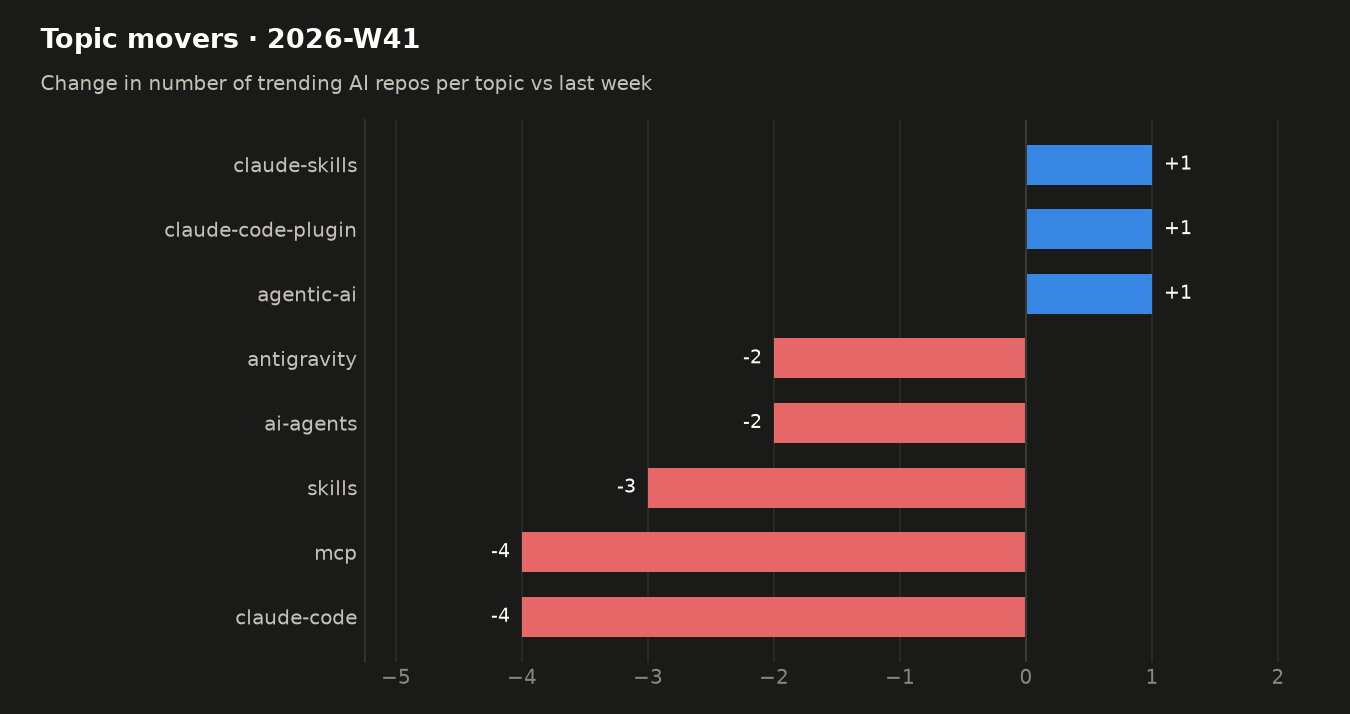
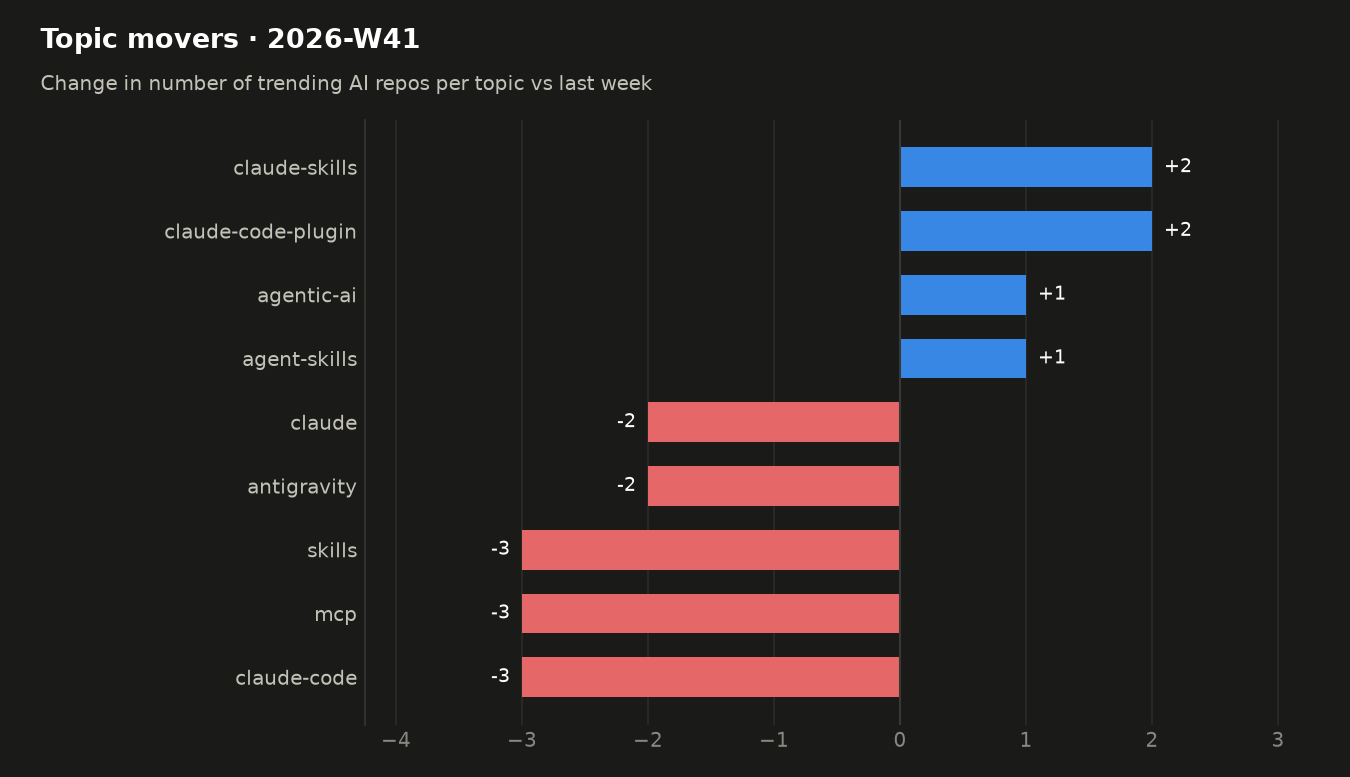
trending: snapshot 2026-10-07

diff --git a/README.md b/README.md
@@ -7,28 +7,31 @@ Every morning a GitHub Actions workflow reads the GitHub trending page, looks up
 ## Live view
 
 <!-- TRACKER_START -->
-### 🔥 AI repos trending today · 2026-10-06
+### 🔥 AI repos trending today · 2026-10-07
 
-7 of 13 trending repositories are AI-related.
+10 of 12 trending repositories are AI-related.
 
 | # | Repo | Language | ⭐ today | ⭐ total | Topics |
 |--:|---|---|--:|--:|---|
-| 2 | [thedotmack/claude-mem](https://github.com/thedotmack/claude-mem)<br><sub>Sponsor Star thedotmack / claude-mem Persistent Context Across Sessions for Every Agent – …</sub> | TypeScript | 534 | 96,796 | `ai` `ai-agents` `ai-memory` `anthropic` |
-| 3 | [earthtojake/text-to-cad](https://github.com/earthtojake/text-to-cad)<br><sub>Star earthtojake / text-to-cad Give your agent CAD superpowers.</sub> | Python | 437 | 17,624 | `agents` `ai-agents` `cad` `mechanical-engineering` |
-| 6 | [Panniantong/Agent-Reach](https://github.com/Panniantong/Agent-Reach)<br><sub>Star Panniantong / Agent-Reach Give your AI agent eyes to see the entire internet. Read & …</sub> | Python | 1,155 | 92,214 | `agent-infrastructure` `ai-agent` `ai-search` `automation` |
-| 7 | [calesthio/OpenMontage](https://github.com/calesthio/OpenMontage)<br><sub>Sponsor Star calesthio / OpenMontage World's first open-source, agentic video production s…</sub> | Python | 742 | 64,344 | `agent` `agentic-ai` `ai` `claude` |
-| 9 | [DuarteSantos8/openGym](https://github.com/DuarteSantos8/openGym)<br><sub>Sponsor Star DuarteSantos8 / openGym Self-hosted gym & body-weight tracker — plan routines…</sub> | JavaScript | 1,433 | 4,676 | `bodyweight` `docker` `fitness` `fitness-tracker` |
-| 10 | [cloudflare/cloudflare-os](https://github.com/cloudflare/cloudflare-os)<br><sub>Star cloudflare / cloudflare-os Agent workspace built on Cloudflare Workers for creating d…</sub> | TypeScript | 101 | 11,127 | – |
-| 12 | [msitarzewski/agency-agents](https://github.com/msitarzewski/agency-agents)<br><sub>Sponsor Star msitarzewski / agency-agents A complete AI agency at your fingertips - From f…</sub> | Shell | 744 | 157,471 | – |
+| 2 | [mattpocock/skills](https://github.com/mattpocock/skills)<br><sub>Sponsor Star mattpocock / skills Skills for Real Engineers. Straight from my .agents direc…</sub> | Shell | 889 | 278,580 | – |
+| 3 | [earthtojake/text-to-cad](https://github.com/earthtojake/text-to-cad)<br><sub>Star earthtojake / text-to-cad Give your agent CAD superpowers.</sub> | Python | 619 | 18,162 | `agents` `ai-agents` `cad` `mechanical-engineering` |
+| 5 | [pbakaus/impeccable](https://github.com/pbakaus/impeccable)<br><sub>Star pbakaus / impeccable The design language that makes your AI harness better at design.</sub> | JavaScript | 616 | 77,943 | – |
+| 6 | [thedotmack/claude-mem](https://github.com/thedotmack/claude-mem)<br><sub>Sponsor Star thedotmack / claude-mem Persistent Context Across Sessions for Every Agent – …</sub> | TypeScript | 534 | 97,336 | `ai` `ai-agents` `ai-memory` `anthropic` |
+| 7 | [ayghri/i-have-adhd](https://github.com/ayghri/i-have-adhd)<br><sub>Star ayghri / i-have-adhd A skill to stop your coding agent from burying the answer. ADHD-…</sub> | Python | 326 | 54,604 | `adhd` `claude-` `claude-code-plugin` `claude-skills` |
+| 8 | [morluto/rea](https://github.com/morluto/rea)<br><sub>Star morluto / rea Reverse engineer anything with agents, from app behavior down to native…</sub> | TypeScript | 2,956 | 10,887 | `agent-skills` `ai-agent-tools` `ai-agents` `binary-analysis` |
+| 9 | [deepseek-ai/DeepGEMM](https://github.com/deepseek-ai/DeepGEMM)<br><sub>Star deepseek-ai / DeepGEMM DeepGEMM: clean and efficient BLAS kernel library on GPU</sub> | Cuda | 199 | 8,804 | – |
+| 10 | [msitarzewski/agency-agents](https://github.com/msitarzewski/agency-agents)<br><sub>Sponsor Star msitarzewski / agency-agents A complete AI agency at your fingertips - From f…</sub> | Shell | 623 | 158,021 | – |
+| 11 | [DuarteSantos8/openGym](https://github.com/DuarteSantos8/openGym)<br><sub>Sponsor Star DuarteSantos8 / openGym Self-hosted gym & body-weight tracker — plan routines…</sub> | JavaScript | 1,419 | 6,132 | `bodyweight` `docker` `fitness` `fitness-tracker` |
+| 12 | [cathrynlavery/diagram-design](https://github.com/cathrynlavery/diagram-design)<br><sub>Sponsor Star cathrynlavery / diagram-design Editorial diagram design for Claude Code, Code…</sub> | HTML | 228 | 44,303 | `agent-skills` `claude-code` `codex` `data-visualization` |
 
 ### 📊 This week so far · 2026-W41
 
 #### Summary
 
-- **14** distinct AI repos trended over 2 day(s) (last week: 29)
-- AI share of all trending slots: **62%** (-16 pts vs last week)
-- Dominant language: **JavaScript** (43% of AI repos)
-- Rising topics: `agentic-ai` (+1), `claude-code-plugin` (+1), `claude-skills` (+1)
+- **19** distinct AI repos trended over 3 day(s) (last week: 29)
+- AI share of all trending slots: **68%** (-10 pts vs last week)
+- Dominant language: **JavaScript** (32% of AI repos)
+- Rising topics: `claude-code-plugin` (+2), `claude-skills` (+2), `agent-skills` (+1), `agentic-ai` (+1)
 
 #### Languages
 
@@ -36,11 +39,13 @@ Every morning a GitHub Actions workflow reads the GitHub trending page, looks up
 
 | Language | Repos | Share | Last week |
 |---|--:|--:|--:|
-| JavaScript | 6 | 43% | 5 |
-| Python | 3 | 21% | 8 |
-| TypeScript | 3 | 21% | 9 |
-| C | 1 | 7% | 1 |
-| Shell | 1 | 7% | 2 |
+| JavaScript | 6 | 32% | 5 |
+| Python | 4 | 21% | 8 |
+| TypeScript | 4 | 21% | 9 |
+| Shell | 2 | 11% | 2 |
+| C | 1 | 5% | 1 |
+| Cuda | 1 | 5% | 0 |
+| HTML | 1 | 5% | 0 |
 
 #### Topics
 
@@ -48,37 +53,37 @@ Every morning a GitHub Actions workflow reads the GitHub trending page, looks up
 
 | Topic | Repos this week |
 |---|--:|
+| `claude-code` | 6 |
 | `claude` | 5 |
-| `claude-code` | 5 |
-| `codex` | 3 |
-| `ai-agents` | 3 |
-| `claude-code-plugin` | 3 |
-| `agent-skills` | 3 |
+| `agent-skills` | 5 |
+| `codex` | 4 |
+| `ai-agents` | 4 |
+| `claude-code-plugin` | 4 |
+| `developer-tools` | 3 |
 | `cursor` | 3 |
-| `developer-tools` | 2 |
-| `mcp` | 2 |
+| `mcp` | 3 |
+| `claude-skills` | 3 |
+| `cli` | 2 |
 | `agentic-ai` | 2 |
-| `anthropic` | 2 |
-| `claude-skills` | 2 |
 
 #### Most persistent AI repos
 
 | Repo | Language | Days trending | Stars gained | Total stars |
 |---|---|--:|--:|--:|
+| [thedotmack/claude-mem](https://github.com/thedotmack/claude-mem) | TypeScript | 3 | 1,696 | 97,336 |
+| [earthtojake/text-to-cad](https://github.com/earthtojake/text-to-cad) | Python | 3 | 1,139 | 18,162 |
+| [DuarteSantos8/openGym](https://github.com/DuarteSantos8/openGym) | JavaScript | 2 | 2,852 | 6,132 |
 | [Panniantong/Agent-Reach](https://github.com/Panniantong/Agent-Reach) | Python | 2 | 2,135 | 92,214 |
-| [thedotmack/claude-mem](https://github.com/thedotmack/claude-mem) | TypeScript | 2 | 1,162 | 96,796 |
+| [pbakaus/impeccable](https://github.com/pbakaus/impeccable) | JavaScript | 2 | 1,787 | 77,943 |
+| [msitarzewski/agency-agents](https://github.com/msitarzewski/agency-agents) | Shell | 2 | 1,367 | 158,021 |
 | [calesthio/OpenMontage](https://github.com/calesthio/OpenMontage) | Python | 2 | 987 | 64,344 |
-| [earthtojake/text-to-cad](https://github.com/earthtojake/text-to-cad) | Python | 2 | 520 | 17,624 |
+| [morluto/rea](https://github.com/morluto/rea) | TypeScript | 1 | 2,956 | 10,887 |
 | [DietrichGebert/ponytail](https://github.com/DietrichGebert/ponytail) | JavaScript | 1 | 1,894 | 155,347 |
-| [DuarteSantos8/openGym](https://github.com/DuarteSantos8/openGym) | JavaScript | 1 | 1,433 | 4,676 |
-| [pbakaus/impeccable](https://github.com/pbakaus/impeccable) | JavaScript | 1 | 1,171 | 76,630 |
-| [msitarzewski/agency-agents](https://github.com/msitarzewski/agency-agents) | Shell | 1 | 744 | 157,471 |
-| [addyosmani/agent-skills](https://github.com/addyosmani/agent-skills) | JavaScript | 1 | 336 | 101,342 |
-| [michael-denyer/pstack-claude](https://github.com/michael-denyer/pstack-claude) | JavaScript | 1 | 232 | 1,248 |
+| [mattpocock/skills](https://github.com/mattpocock/skills) | Shell | 1 | 889 | 278,580 |
 
 ➡ Last full weekly analysis: [2026-W40](reports/weekly/2026-W40.md) · [all reports](reports/weekly)
 
-_Tracking since 2026-10-01 · 6 day(s) of data · [raw data](data/trending.csv)_
+_Tracking since 2026-10-01 · 7 day(s) of data · [raw data](data/trending.csv)_
 <!-- TRACKER_END -->
 
 ## How it works
